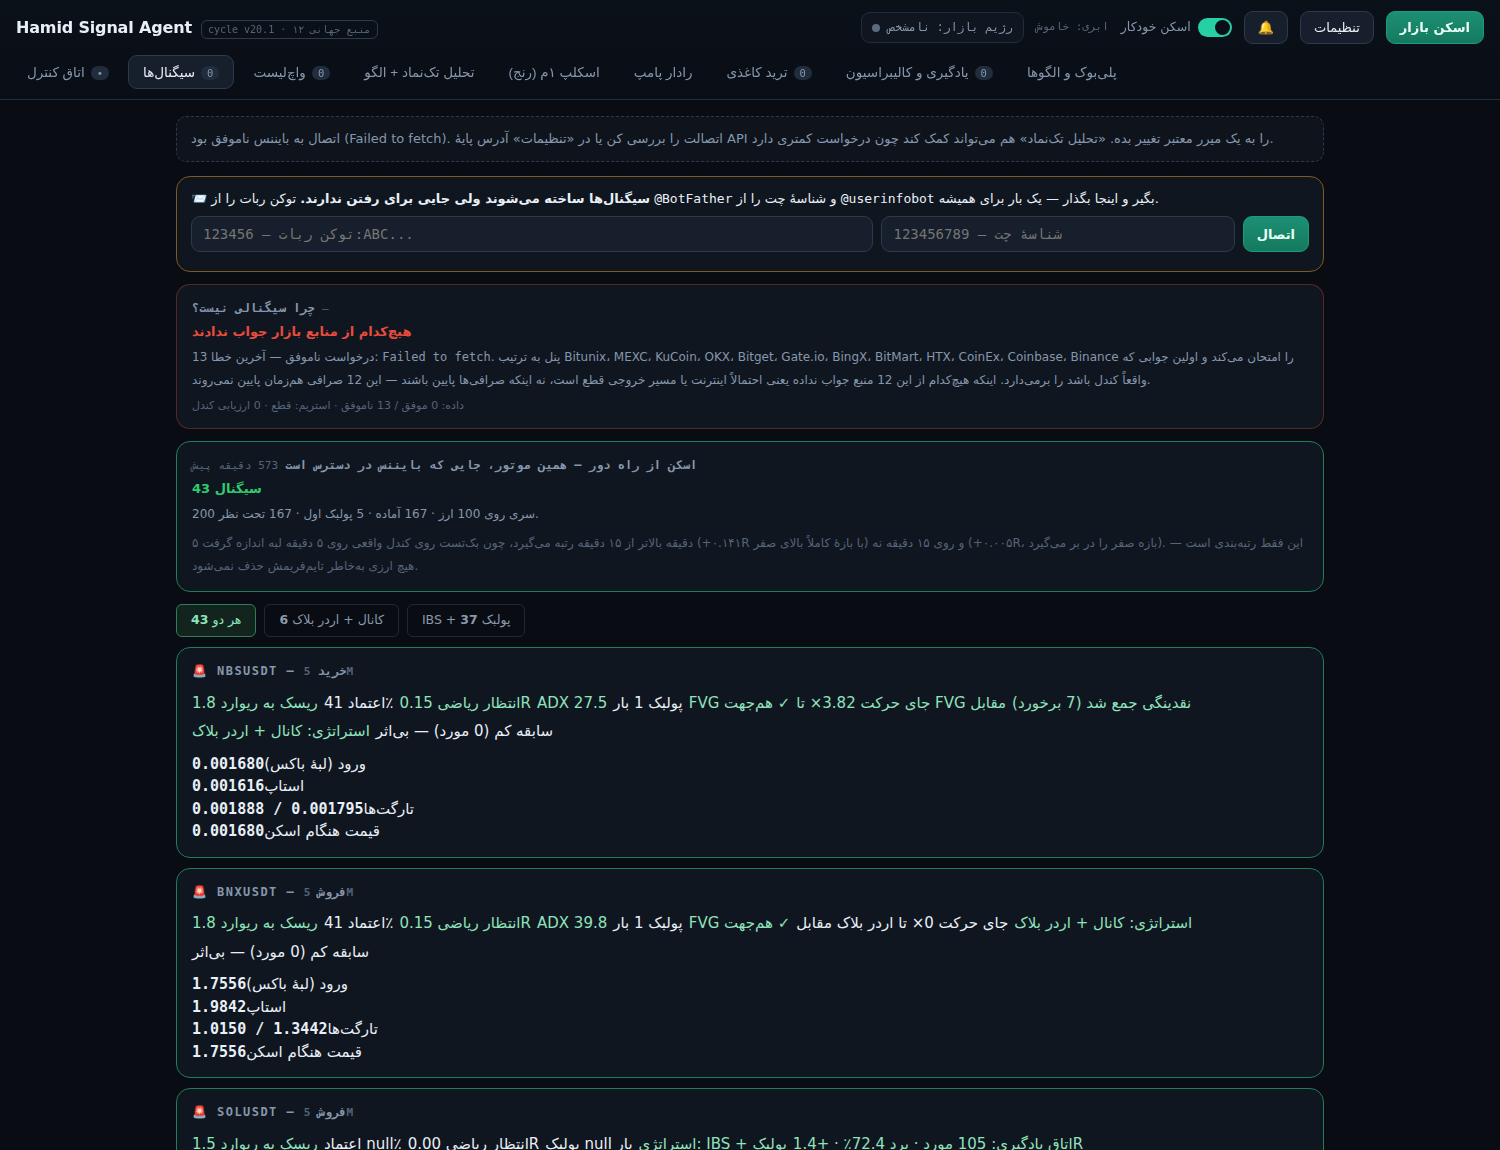
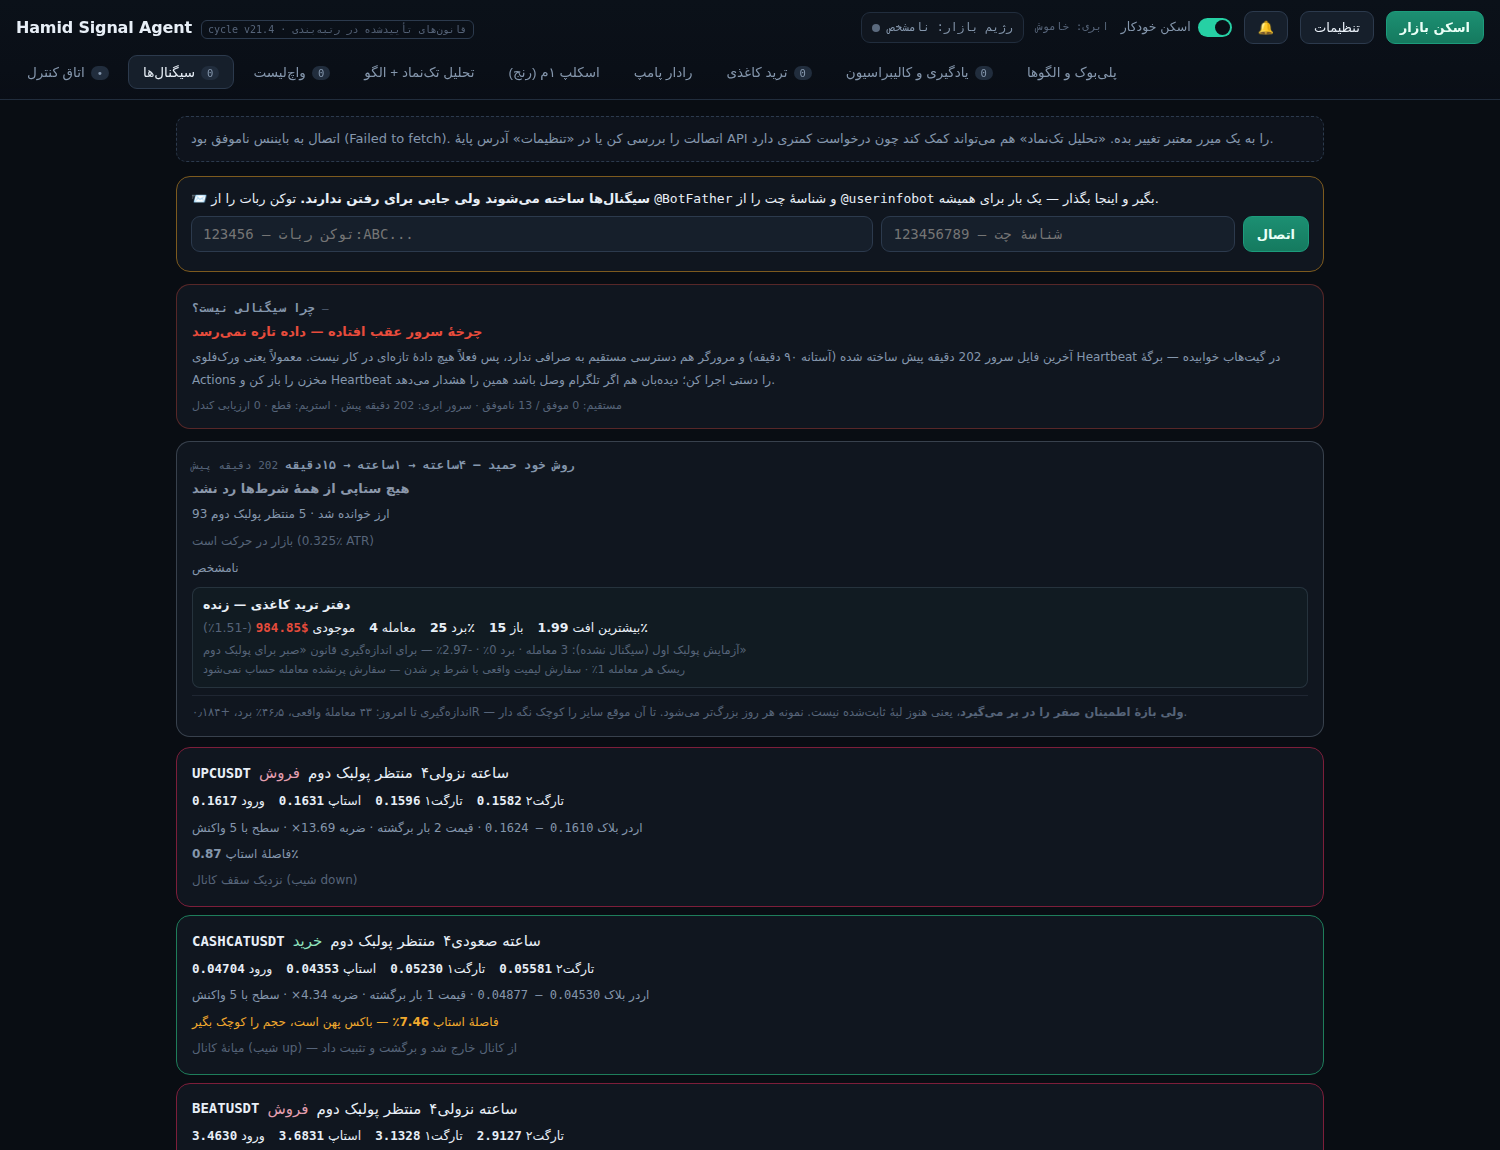
قانونهای تأییدشدهٔ بکتست در رتبهبندی اسکن زنده اعمال میشوند (#28)
تغییر کنترلشدهٔ این چرخه. بکتست کندل واقعی هر صبح شرطها را میسنجد و
فقط شرطی که بازهٔ بوتاسترپش صفر را رد کرده باشد در brain/backtests میماند؛
تا امروز اینها را ذخیره میکردیم و استفاده نمیکردیم. حالا scan.py همان
فایل را میخواند و دلتای اندازهگیریشده را بهصورت وزن علامتدار در ترتیب
ستاپها مینشاند:

- smc با R:R≥2.5: +0.380R دلتا CI[0.01, 0.785] → بالا میرود
- ibs شورت همسو با بیتکوین: +0.271R CI[0.059, 0.487] → بالا میرود
- ibs داخل اردر بلاک: +0.138R CI[0.01, 0.274] → بالا میرود
- smc شورت همسو با بیتکوین: −0.234R CI[−0.414, −0.041] → پایین میرود

تعریف btc_dir دقیقاً همان تعریف ماینر است (۸ کندل همان تایمفریم، ناحیهٔ
مردهٔ ±۰.۲۵٪) تا قانون ذخیرهشده و آزمون زنده یک معنی داشته باشند. شرطی
که ستاپ زنده نمیتواند دقیق بیانش کند (خانوادهٔ کانال) رد میشود، تقریب
زده نمیشود. چون فایل قانون هر صبح بازسنجی میشود، قانونی که از اعتبار
بیفتد بدون ویرایش کد صندلیاش را از دست میدهد.

پنل چیپ «قانون تأییدشدهٔ بکتست» را روی هر سیگنال نشان میدهد (v21.4).
تست: apply_learned_rules با فایل واقعی backtests/latest.json — ترتیب
مثبت/منفی درست؛ tests/hamid-panel.mjs و relay-render.mjs سبز.

Claude-Session: https://claude.ai/code/session_01Hmz5ep1FQiSRdvnpYTDsuE

diff --git a/index.html b/index.html
@@ -217,7 +217,7 @@ input.f{background:var(--panel2);border:1px solid var(--line2);border-radius:9px
 <body dir="ltr">
 <header>
   <div class="bar">
-    <div class="brand"><b>Hamid Signal Agent</b><span class="v" id="ver">cycle v21.3 · منبع همیشهمتصل</span></div>
+    <div class="brand"><b>Hamid Signal Agent</b><span class="v" id="ver">cycle v21.4 · قانونهای تأییدشده در رتبهبندی</span></div>
     <div class="regime" id="regime"><span class="dot"></span><span id="regimeTxt">رژیم بازار: نامشخص</span></div>
     <span class="mono" id="syncPill" style="font-size:11px;color:var(--dim)">ابری: خاموش</span>
     <label class="switch" id="autoSw"><span>اسکن خودکار</span><i></i></label>
@@ -3425,6 +3425,9 @@ function relayCard(s){
         if(L.verdict==="thin")return chip(`سابقه کم (${L.n} مورد) — بیاثر`,false);
         const good=L.verdict==="good";
         return chip(`اتاق یادگیری: ${L.n} مورد · برد ${L.hit}٪ · ${L.ev>=0?"+":""}${L.ev}R`,good);})()}
+      ${(()=>{const R=s.learned;if(!R||!R.rules||!R.rules.length)return"";
+        const t=R.rules.map(x=>x.rule).join("، ");
+        return chip(`قانون تأییدشدهٔ بکتست: ${t} (${R.boost>=0?"+":""}${R.boost}R)`,R.boost>0);})()}
     </div>
     <div class="lvls">
       <div><span>ورود (لبهٔ باکس)</span><b class="num">${px(s.entry)}</b></div>

diff --git a/sw.js b/sw.js
@@ -1,7 +1,7 @@
 /* Hamid Signal Agent — service worker
    Caches the app shell so the panel opens instantly (even offline),
    while always going to the network for live market data and the cloud API. */
-const CACHE = "hsa-shell-v21.3";
+const CACHE = "hsa-shell-v21.4";
 const ASSETS = [
   "./",
   "./index.html",

diff --git a/claude-liam-signal/python/scan.py b/claude-liam-signal/python/scan.py
@@ -106,6 +106,89 @@ def usdt_dominance():
         return None
 
 
+def _btc_dir_by_tf(jobs):
+    """Same definition the miner stored: close now against 8 bars ago on the
+    same grid, with a ±0.25% dead zone. A different definition here would make
+    the mined rule and the live test mean different things."""
+    out = {}
+    for j in jobs:
+        if j["sym"] != "BTCUSDT":
+            continue
+        cd = j["candles"]
+        if len(cd) > 8:
+            chg = (cd[-1]["c"] - cd[-9]["c"]) / cd[-9]["c"] * 100
+            out[j["tf"]] = "UP" if chg > 0.25 else "DOWN" if chg < -0.25 else "FLAT"
+    return out
+
+
+def _room_r(s):
+    r = s.get("room")
+    return r["r"] if isinstance(r, dict) else (r or 0)
+
+
+# Mirrors mine.py's CONDITIONS over the live setup's fields. A condition the
+# live setup cannot express exactly (the channel family) is absent on purpose:
+# skipped is honest, approximated is a different rule wearing the same name.
+RULE_TESTS = {
+    "FVG همجهت دارد": lambda s, b: bool(s.get("fvg")),
+    "روی سطح کلیدی": lambda s, b: bool(s.get("level")),
+    "ADX بالای ۲۵": lambda s, b: (s.get("adx") or 0) >= 25,
+    "ADX زیر ۲۰": lambda s, b: (s.get("adx") or 99) < 20,
+    "پولبک دوم یا بیشتر": lambda s, b: (s.get("visits") or 0) >= 2,
+    "نقدینگی جمع شده": lambda s, b: bool(s.get("swept")),
+    "جای حرکت بیش از ۱.۵ برابر": lambda s, b: _room_r(s) >= 1.5,
+    "جای حرکت کمتر از ۱ برابر": lambda s, b: 0 < _room_r(s) < 1,
+    "R:R بالای ۲.۵": lambda s, b: (s.get("rr") or 0) >= 2.5,
+    "CHOCH دارد": lambda s, b: s.get("choch") == 1,
+    "داخل اردر بلاک": lambda s, b: s.get("inOB") == 1 or s.get("inside") is True,
+    "بیتکوین صعودی": lambda s, b: b == "UP",
+    "بیتکوین نزولی": lambda s, b: b == "DOWN",
+    "لانگ همسو با بیتکوین": lambda s, b: s.get("dir") == "LONG" and b == "UP",
+    "شورت همسو با بیتکوین": lambda s, b: s.get("dir") == "SHORT" and b == "DOWN",
+    "لانگ خلاف بیتکوین": lambda s, b: s.get("dir") == "LONG" and b == "DOWN",
+    "شورت خلاف بیتکوین": lambda s, b: s.get("dir") == "SHORT" and b == "UP",
+}
+
+
+def apply_learned_rules(setups, jobs):
+    """The nightly backtest's confirmed lessons, applied instead of just stored.
+
+    brain/backtests/latest.json is remeasured every morning on real candles.
+    Only conditions whose bootstrap interval cleared zero act here, and each
+    acts with its measured delta as a signed weight — so a condition the tape
+    stopped rewarding loses its seat at the next morning's remeasure without
+    anyone editing this file. The measurement decides; this code only obeys it."""
+    try:
+        j = json.loads((ROOT / "brain" / "backtests" / "latest.json").read_text())
+    except Exception:                                # noqa: BLE001 - no backtest yet is a valid state
+        return 0
+    rules = {}
+    for strat, rs in (j.get("reasons") or {}).items():
+        keep = [r for r in rs if r.get("ci") and (r["ci"][0] > 0 or r["ci"][1] < 0)]
+        if keep:
+            rules[strat] = keep
+    if not rules:
+        return 0
+    btc = _btc_dir_by_tf(jobs)
+    n = 0
+    for s in setups:
+        hits, total = [], 0.0
+        for r in rules.get(s.get("strategy"), []):
+            test = RULE_TESTS.get(r["condition"])
+            if not test:
+                continue
+            try:
+                if test(s, btc.get(s["tf"])):
+                    total += r["delta"]
+                    hits.append({"rule": r["condition"], "delta": r["delta"]})
+            except Exception:                        # noqa: BLE001 - one odd field must not kill the scan
+                continue
+        if hits:
+            s["learned"] = {"boost": round(total, 3), "rules": hits}
+            n += 1
+    return n
+
+
 def main():
     ap = argparse.ArgumentParser()
     ap.add_argument("--symbols", type=int, default=100)
@@ -154,7 +237,11 @@ def main():
             sys.exit(f"scan worker failed: {se.decode()[:600]}")
         setups += json.loads(so.decode() or "[]")
 
+    applied = apply_learned_rules(setups, jobs)
+    print(f"confirmed backtest rules applied to {applied} setups", flush=True)
+
     setups.sort(key=lambda s: (STAGE_RANK.get(s["stage"], 0), TF_RANK.get(s["tf"], 0),
+                               (s.get("learned") or {}).get("boost", 0.0),
                                s["conf"] or 0, s["ev"] or 0), reverse=True)
 
     # ── the learning room is asked before anything is called a signal ─────────
